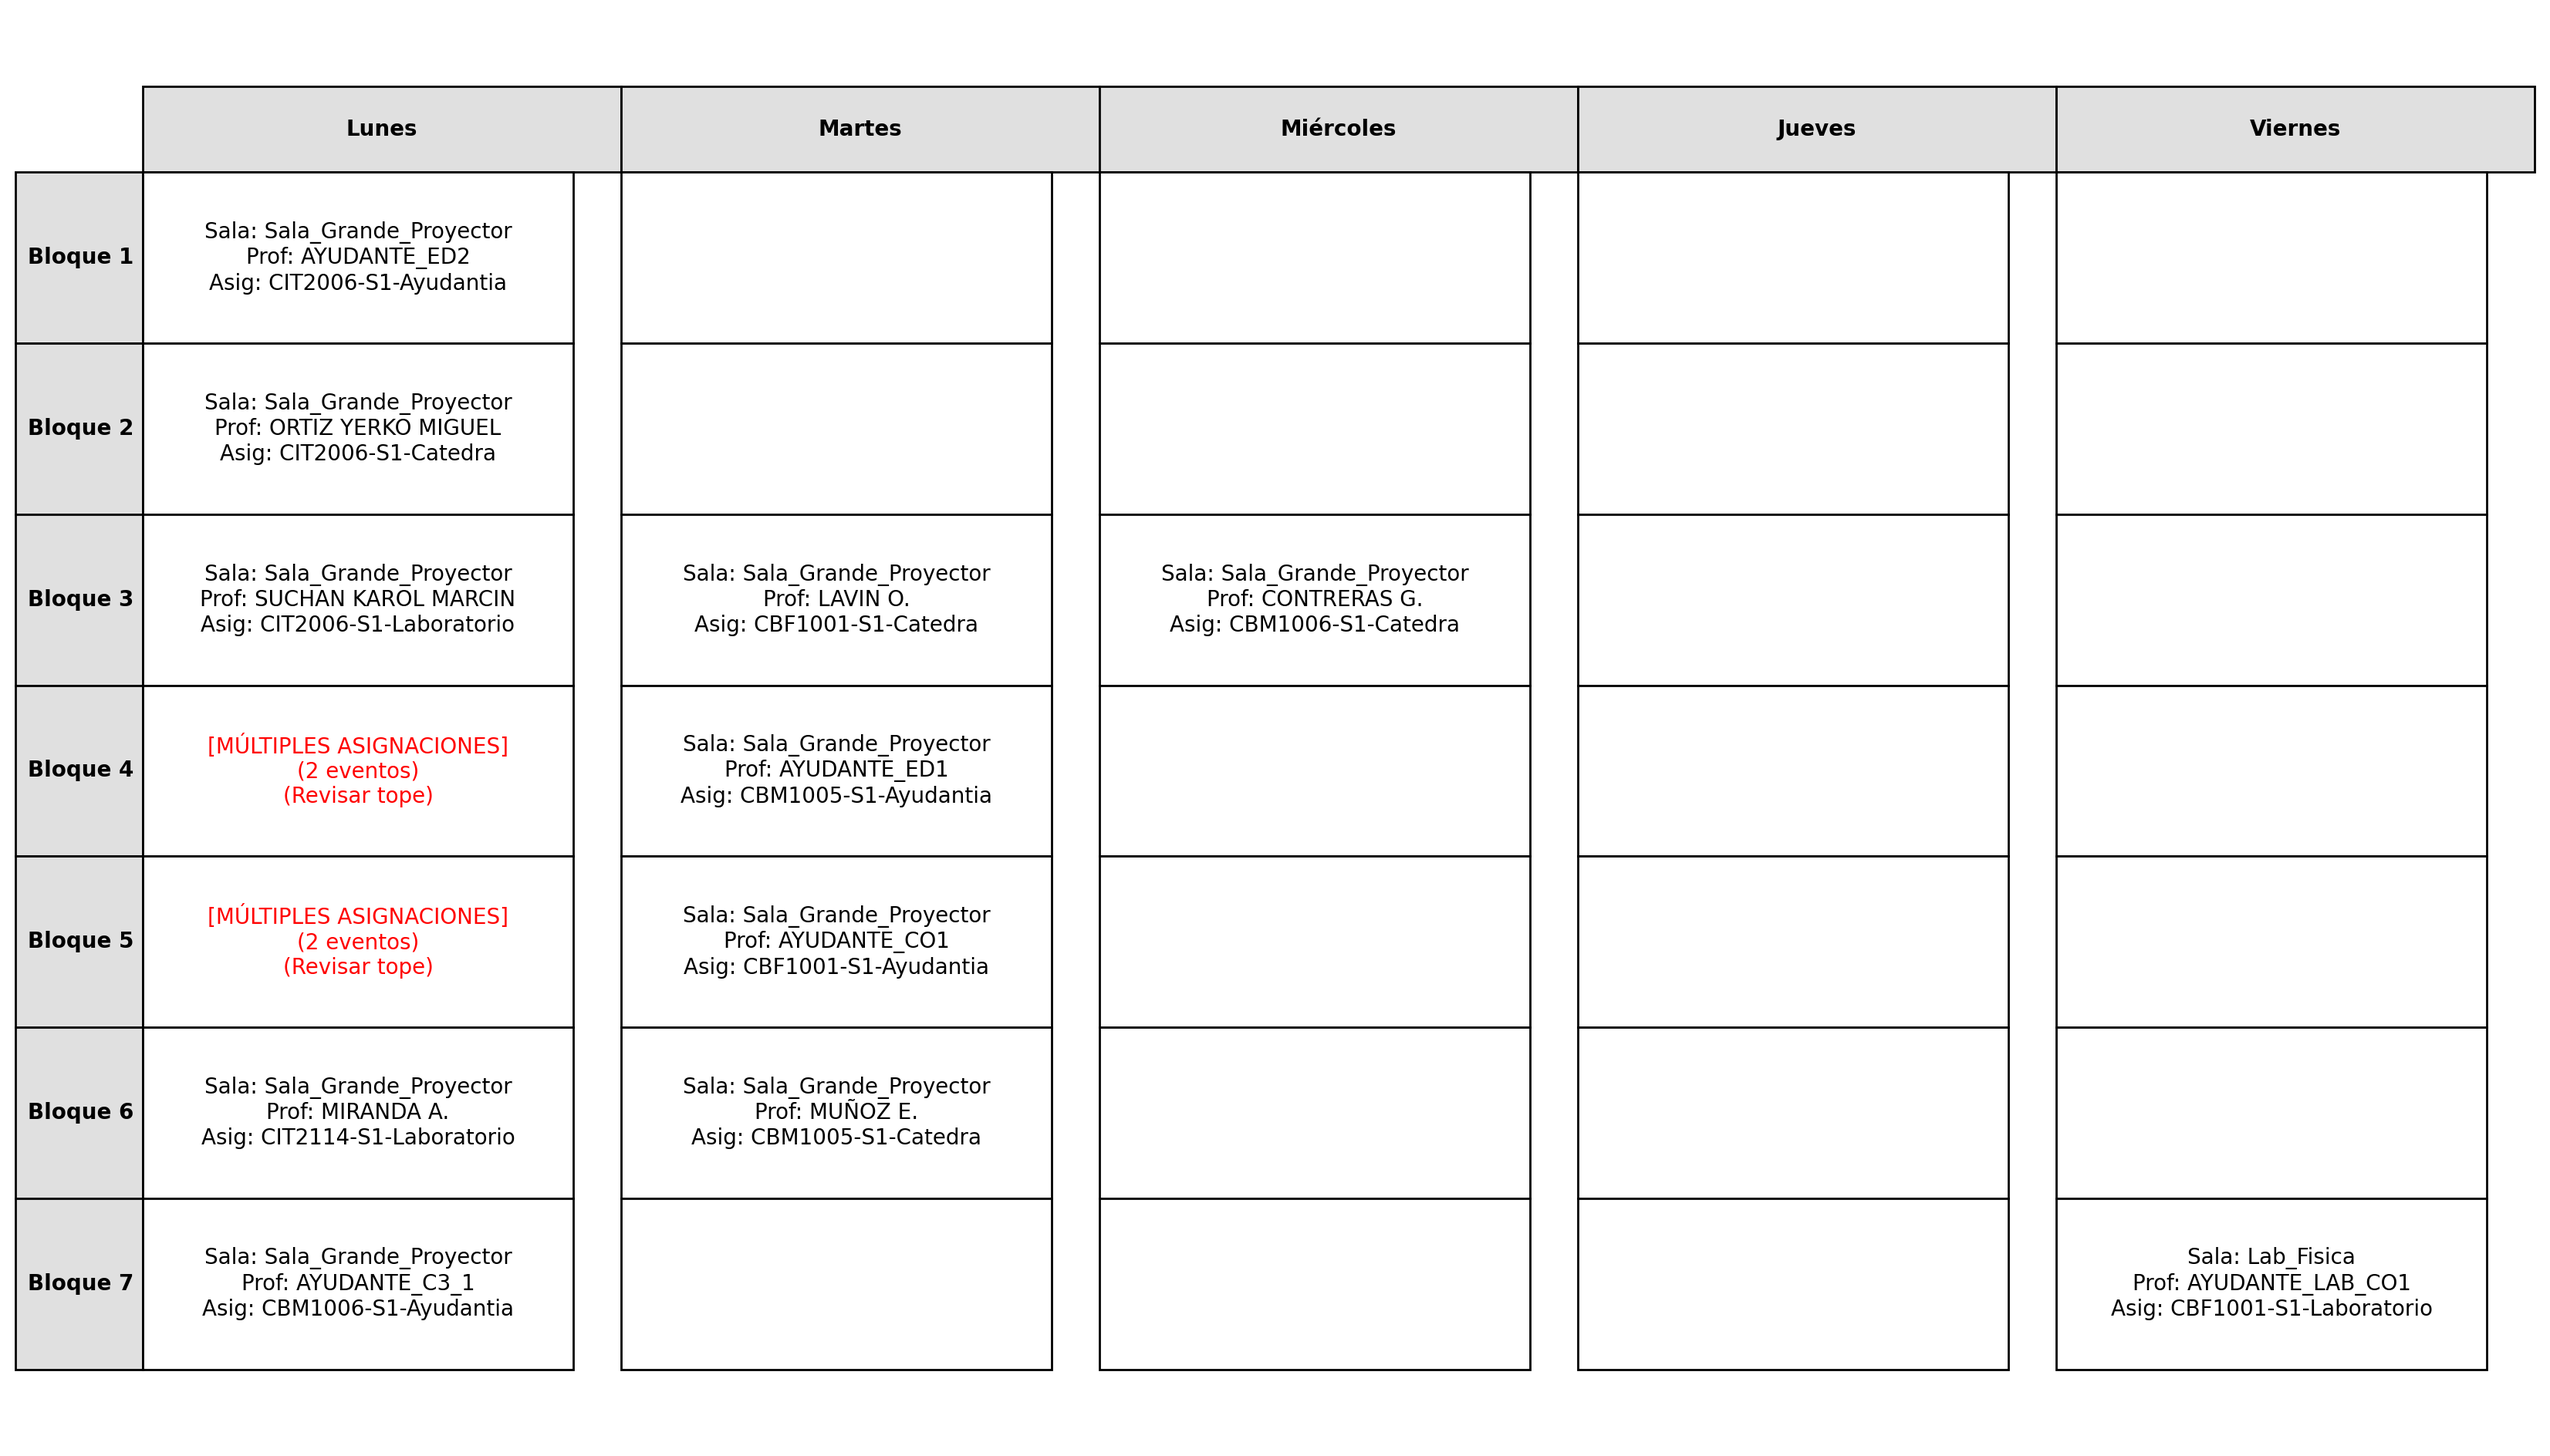
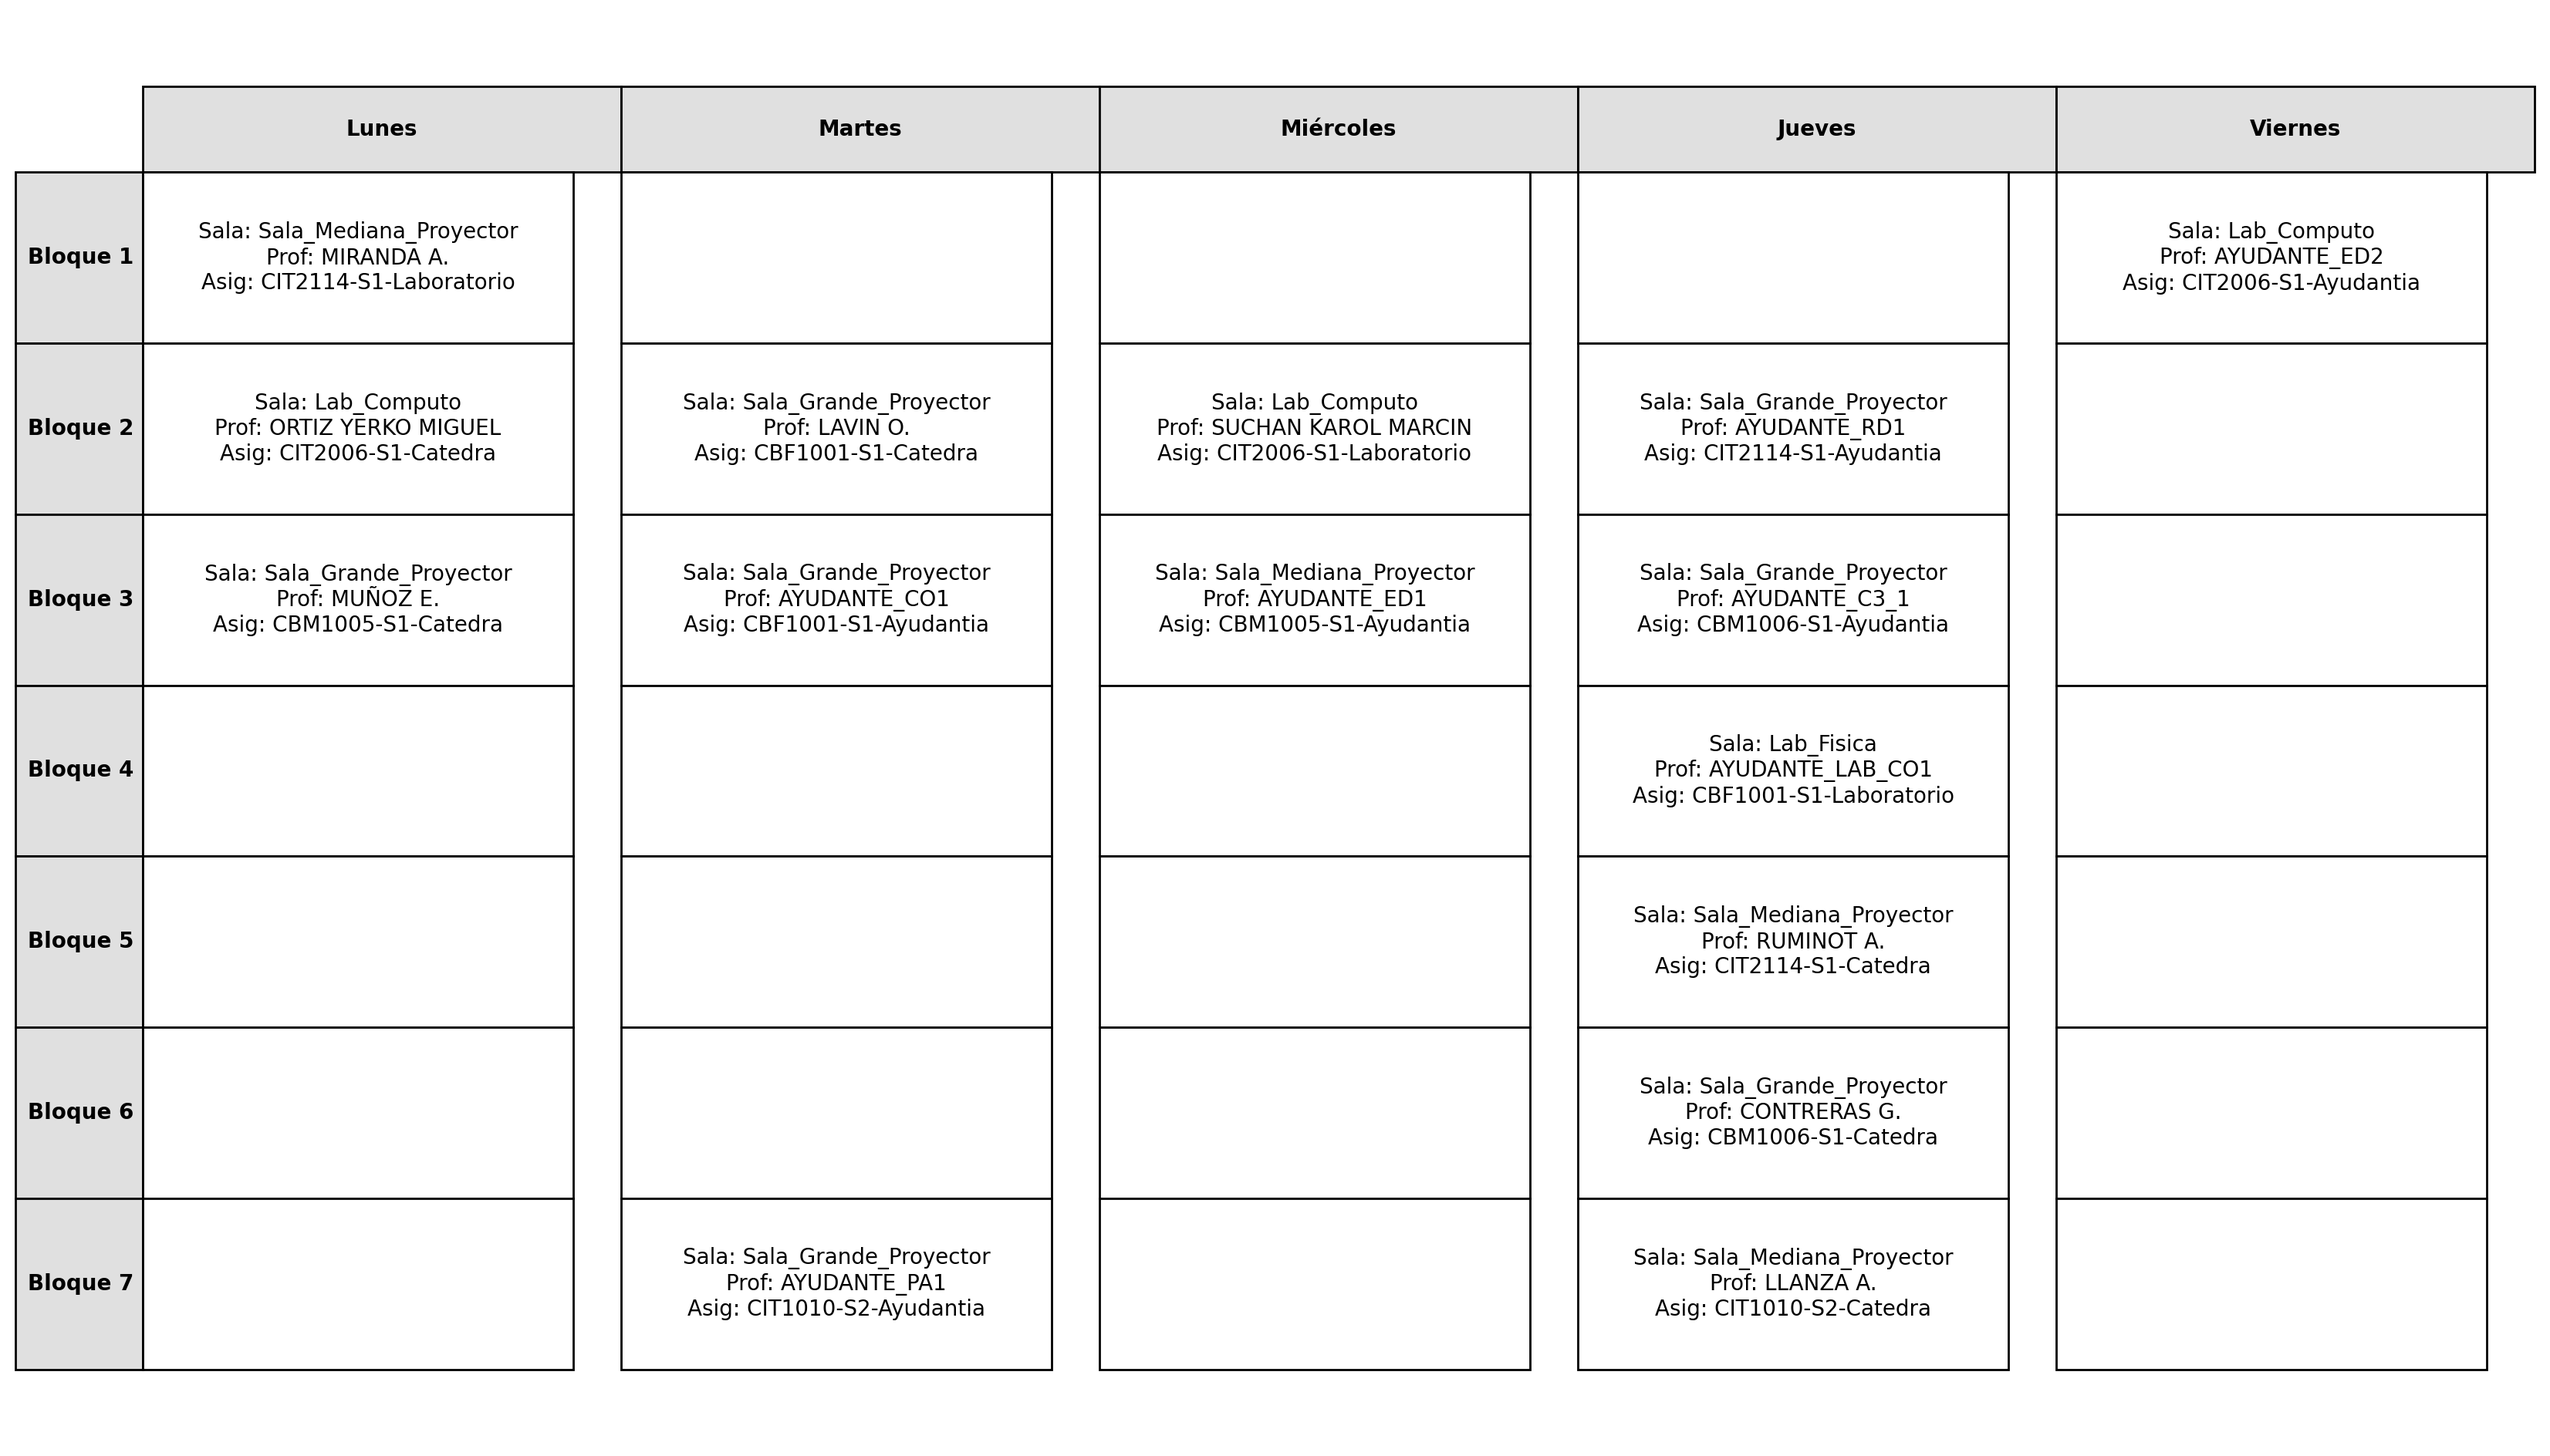
Improve group conflict logic and visualization
Updated the scheduling algorithm to merge curricular groups that share courses, ensuring proper conflict handling. Modified visualization to display multiple assignments in a cell without marking them as errors, reflecting that different room types are allowed. Updated generated schedule data and image to match new logic.

diff --git a/Demo.py b/Demo.py
@@ -129,17 +129,54 @@ class SchedulingModel:
                     self.adj[a].add(b)
                     self.adj[b].add(a)
 
-        # 2) Conflictos por grupos curriculares (cursos en el mismo grupo no pueden toparse)
-        #    Conectamos todos los vértices cuyos 'course' estén dentro del mismo grupo.
+        # 2) Conflictos por grupos curriculares (NUEVA LÓGICA)
+        
+        # Primero, procesamos los grupos para encontrar componentes conectados
+        # (grupos que se deben fusionar porque comparten cursos)
+        course_to_groups: Dict[str, List[str]] = defaultdict(list)
+        for gname, course_list in self.groups.items():
+            for course in course_list:
+                course_to_groups[course].append(gname)
+
+        # Ahora, usamos un simple BFS/DFS para encontrar los "super-grupos"
+        merged_groups: List[Set[str]] = []
+        visited_groups = set()
+
+        for gname in self.groups.keys():
+            if gname in visited_groups:
+                continue
+            
+            # Nuevo super-grupo
+            current_super_group_courses: Set[str] = set()
+            q = deque([gname]) # 'deque' ya está importado en la línea 41
+            visited_groups.add(gname)
+
+            while q:
+                current_gname = q.popleft()
+                courses_in_group = self.groups[current_gname]
+                current_super_group_courses.update(courses_in_group)
+
+                # Encontrar otros grupos conectados por estos cursos
+                for course in courses_in_group:
+                    for neighbor_gname in course_to_groups[course]:
+                        if neighbor_gname not in visited_groups:
+                            visited_groups.add(neighbor_gname)
+                            q.append(neighbor_gname)
+            
+            merged_groups.append(current_super_group_courses)
+
+        # 'merged_groups' ahora contiene sets de cursos que realmente no pueden toparse
+        
         by_course: Dict[str, List[int]] = defaultdict(list)
         for i, v in enumerate(self.vertices):
             by_course[v.course].append(i)
 
-        for gname, course_list in self.groups.items():
-            # list of vertex indices that belong to any of the courses in this group
+        # 3) Construir la clique para cada "super-grupo"
+        for course_set in merged_groups:
             group_vertices: List[int] = []
-            for c in course_list:
+            for c in course_set:
                 group_vertices.extend(by_course.get(c, []))
+            
             # clique entre ellos
             for i in range(len(group_vertices)):
                 for j in range(i + 1, len(group_vertices)):
@@ -153,7 +190,7 @@ class SchedulingModel:
     def room_type_compatible(self, v: Vertex, room_type: str) -> bool:
         rt = self.room_types[room_type]
         return rt.capacity >= v.seats
-
+    
     def teacher_slot_compatible(self, v: Vertex, slot_idx: int) -> bool:
         # [NUEVO] Verifica la restricción de disponibilidad docente
         forbidden_slots = self.teacher_constraints.get(v.teacher, set())

diff --git a/visualizar.py b/visualizar.py
@@ -105,12 +105,11 @@ def main():
             if len(events) == 0:
                 # Celda vacía (con 3 líneas para altura uniforme)
                 row.append('\n\n')
-            elif len(events) == 1:
-                # Celda con un evento
-                row.append(events[0])
             else:
-                # Múltiples eventos en un bloque (TOPE)
-                row.append(f"[MÚLTIPLES ASIGNACIONES]\n({len(events)} eventos)\n(Revisar tope)")
+                # **CAMBIO**: En lugar de marcar un error si hay más de 1 evento,
+                # los unimos con un separador. Esto es correcto porque
+                # el algoritmo los asignó a diferentes tipos de sala.
+                row.append("\n------------------\n".join(events))
         cell_text.append(row)
 
     # --- 4. Generar la Imagen con Matplotlib ---
@@ -152,9 +151,10 @@ def main():
             cell.set_facecolor('white')
             cell.set_width(0.18) # Ancho uniforme para columnas
             
-            # Resaltar topes en rojo
-            if '[MÚLTIPLES ASIGNACIONES]' in cell.get_text().get_text():
-                cell.set_text_props(color='red')
+            # **CAMBIO**: Eliminamos la lógica que pintaba de rojo
+            # la celda, ya que no es un error.
+            # if '[MÚLTIPLES ASIGNACIONES]' in cell.get_text().get_text():
+            #     cell.set_text_props(color='red')
     
     try:
         # Guardar la figura
